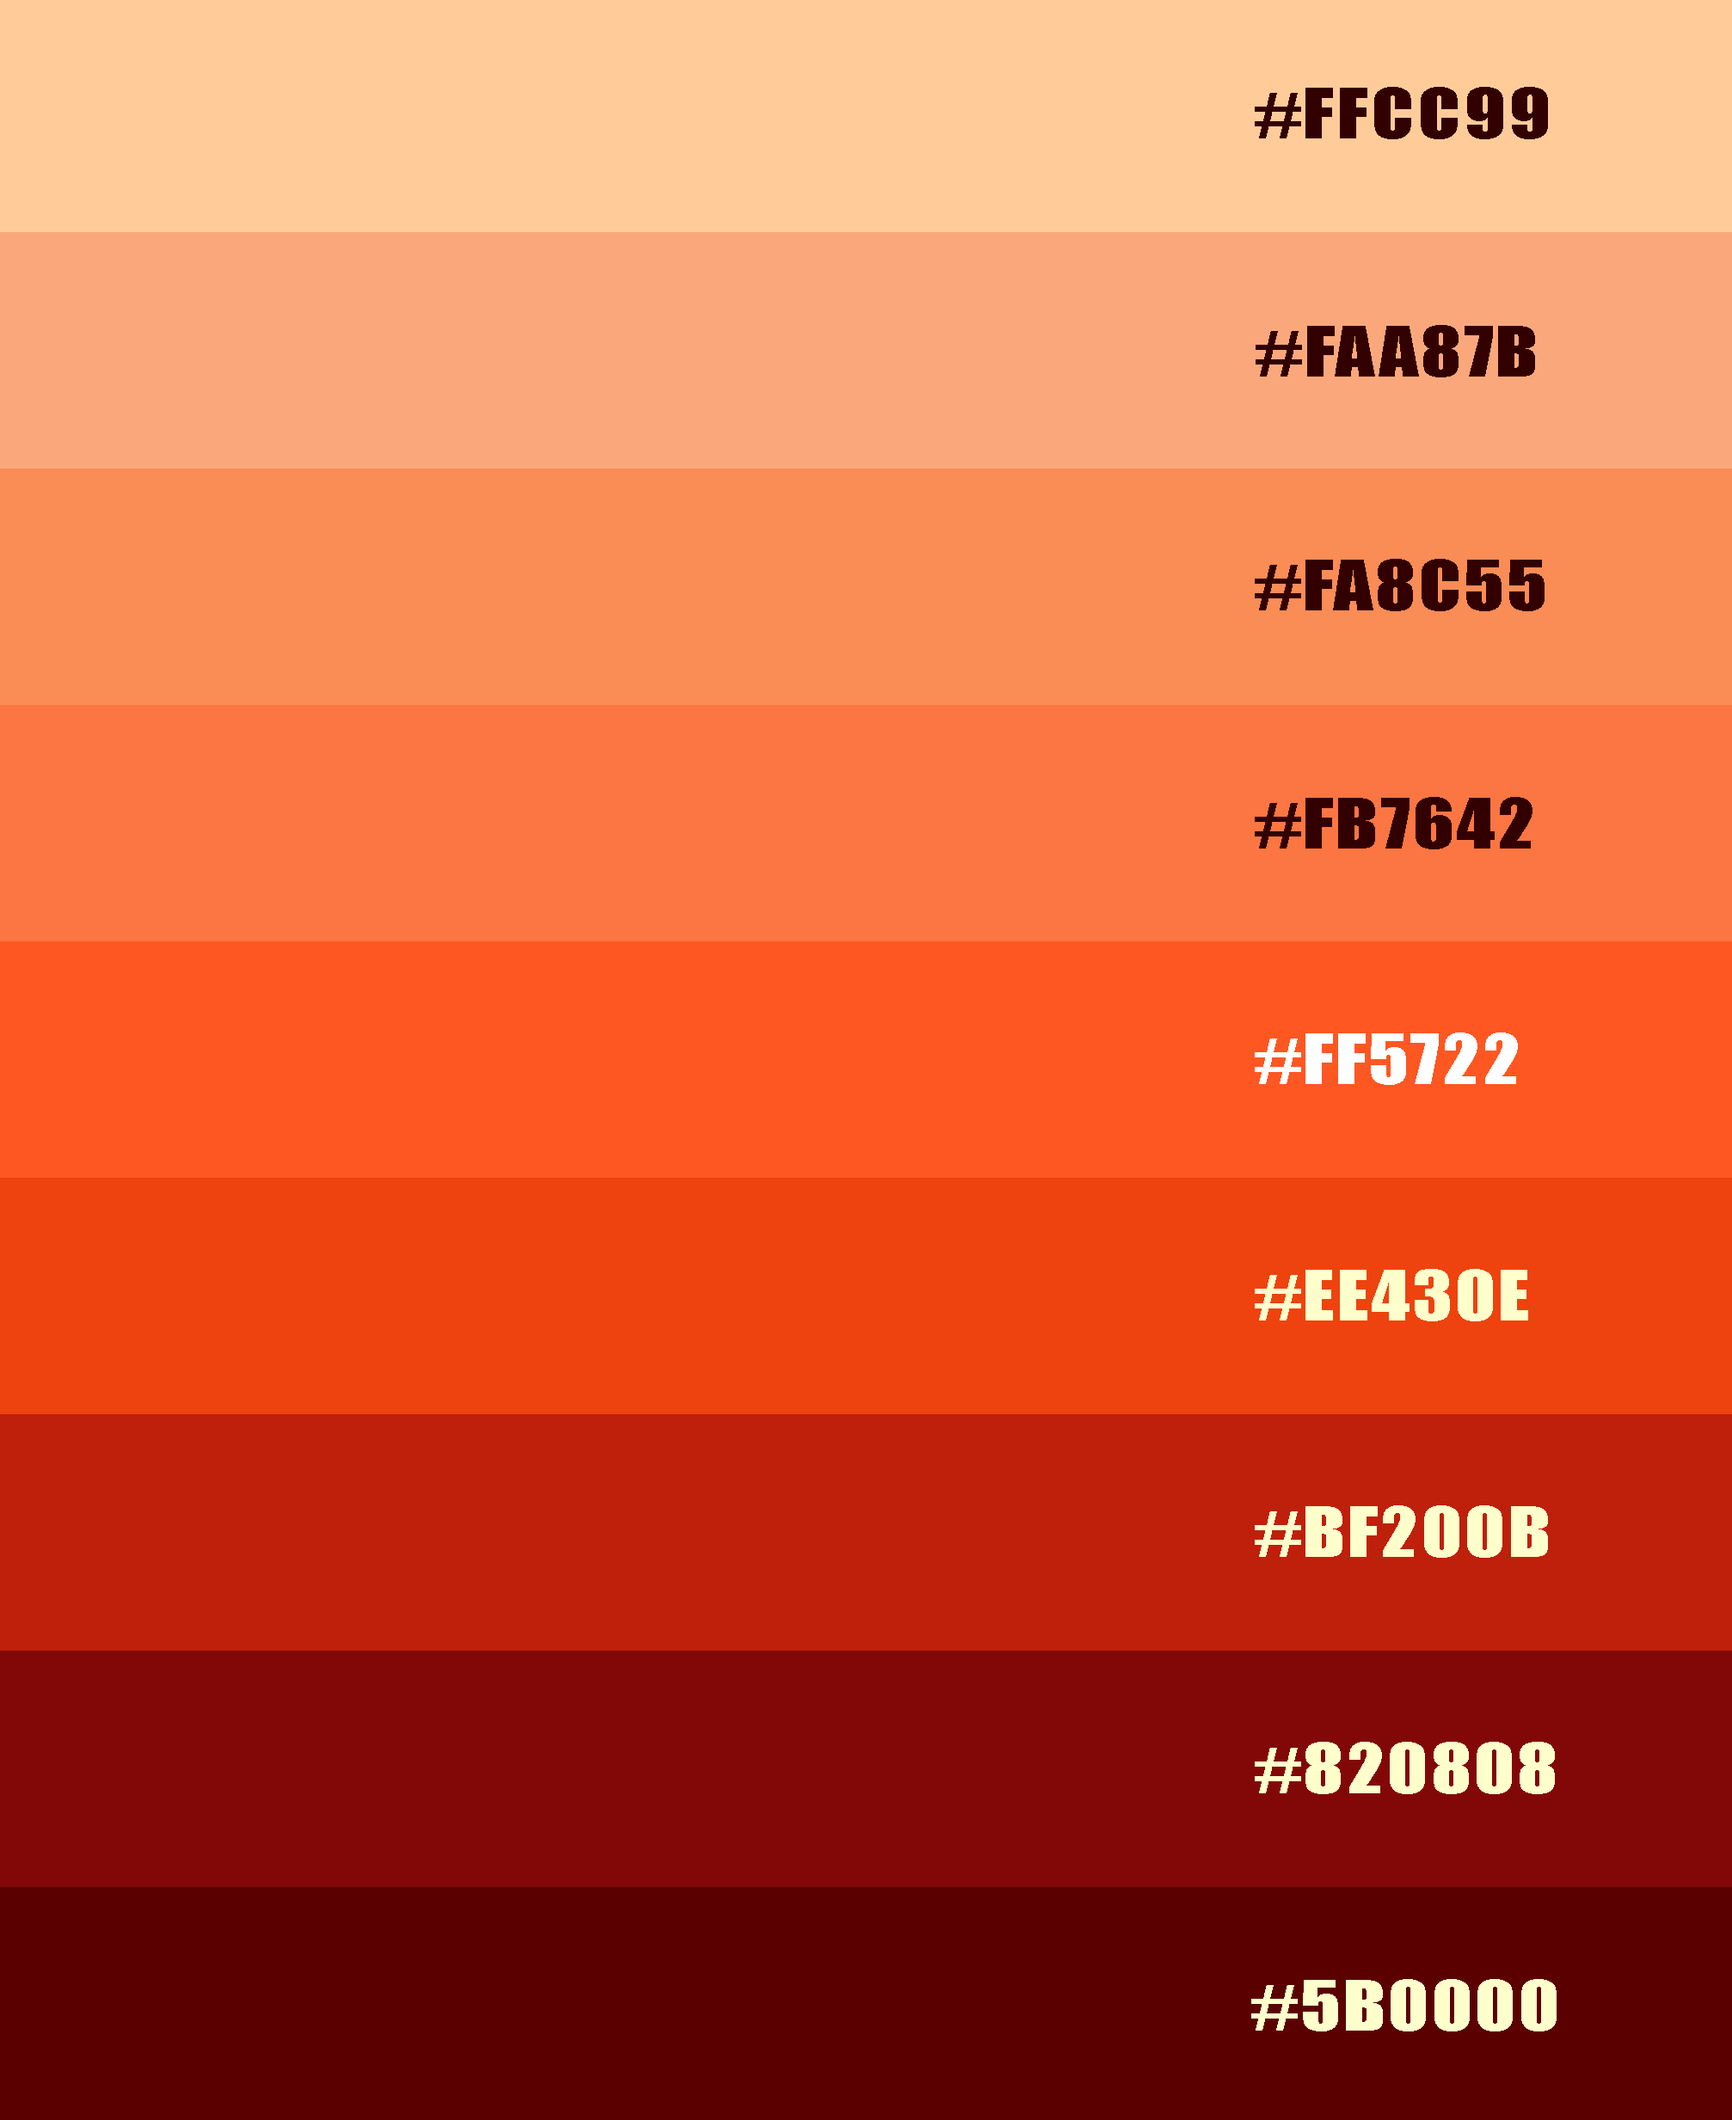
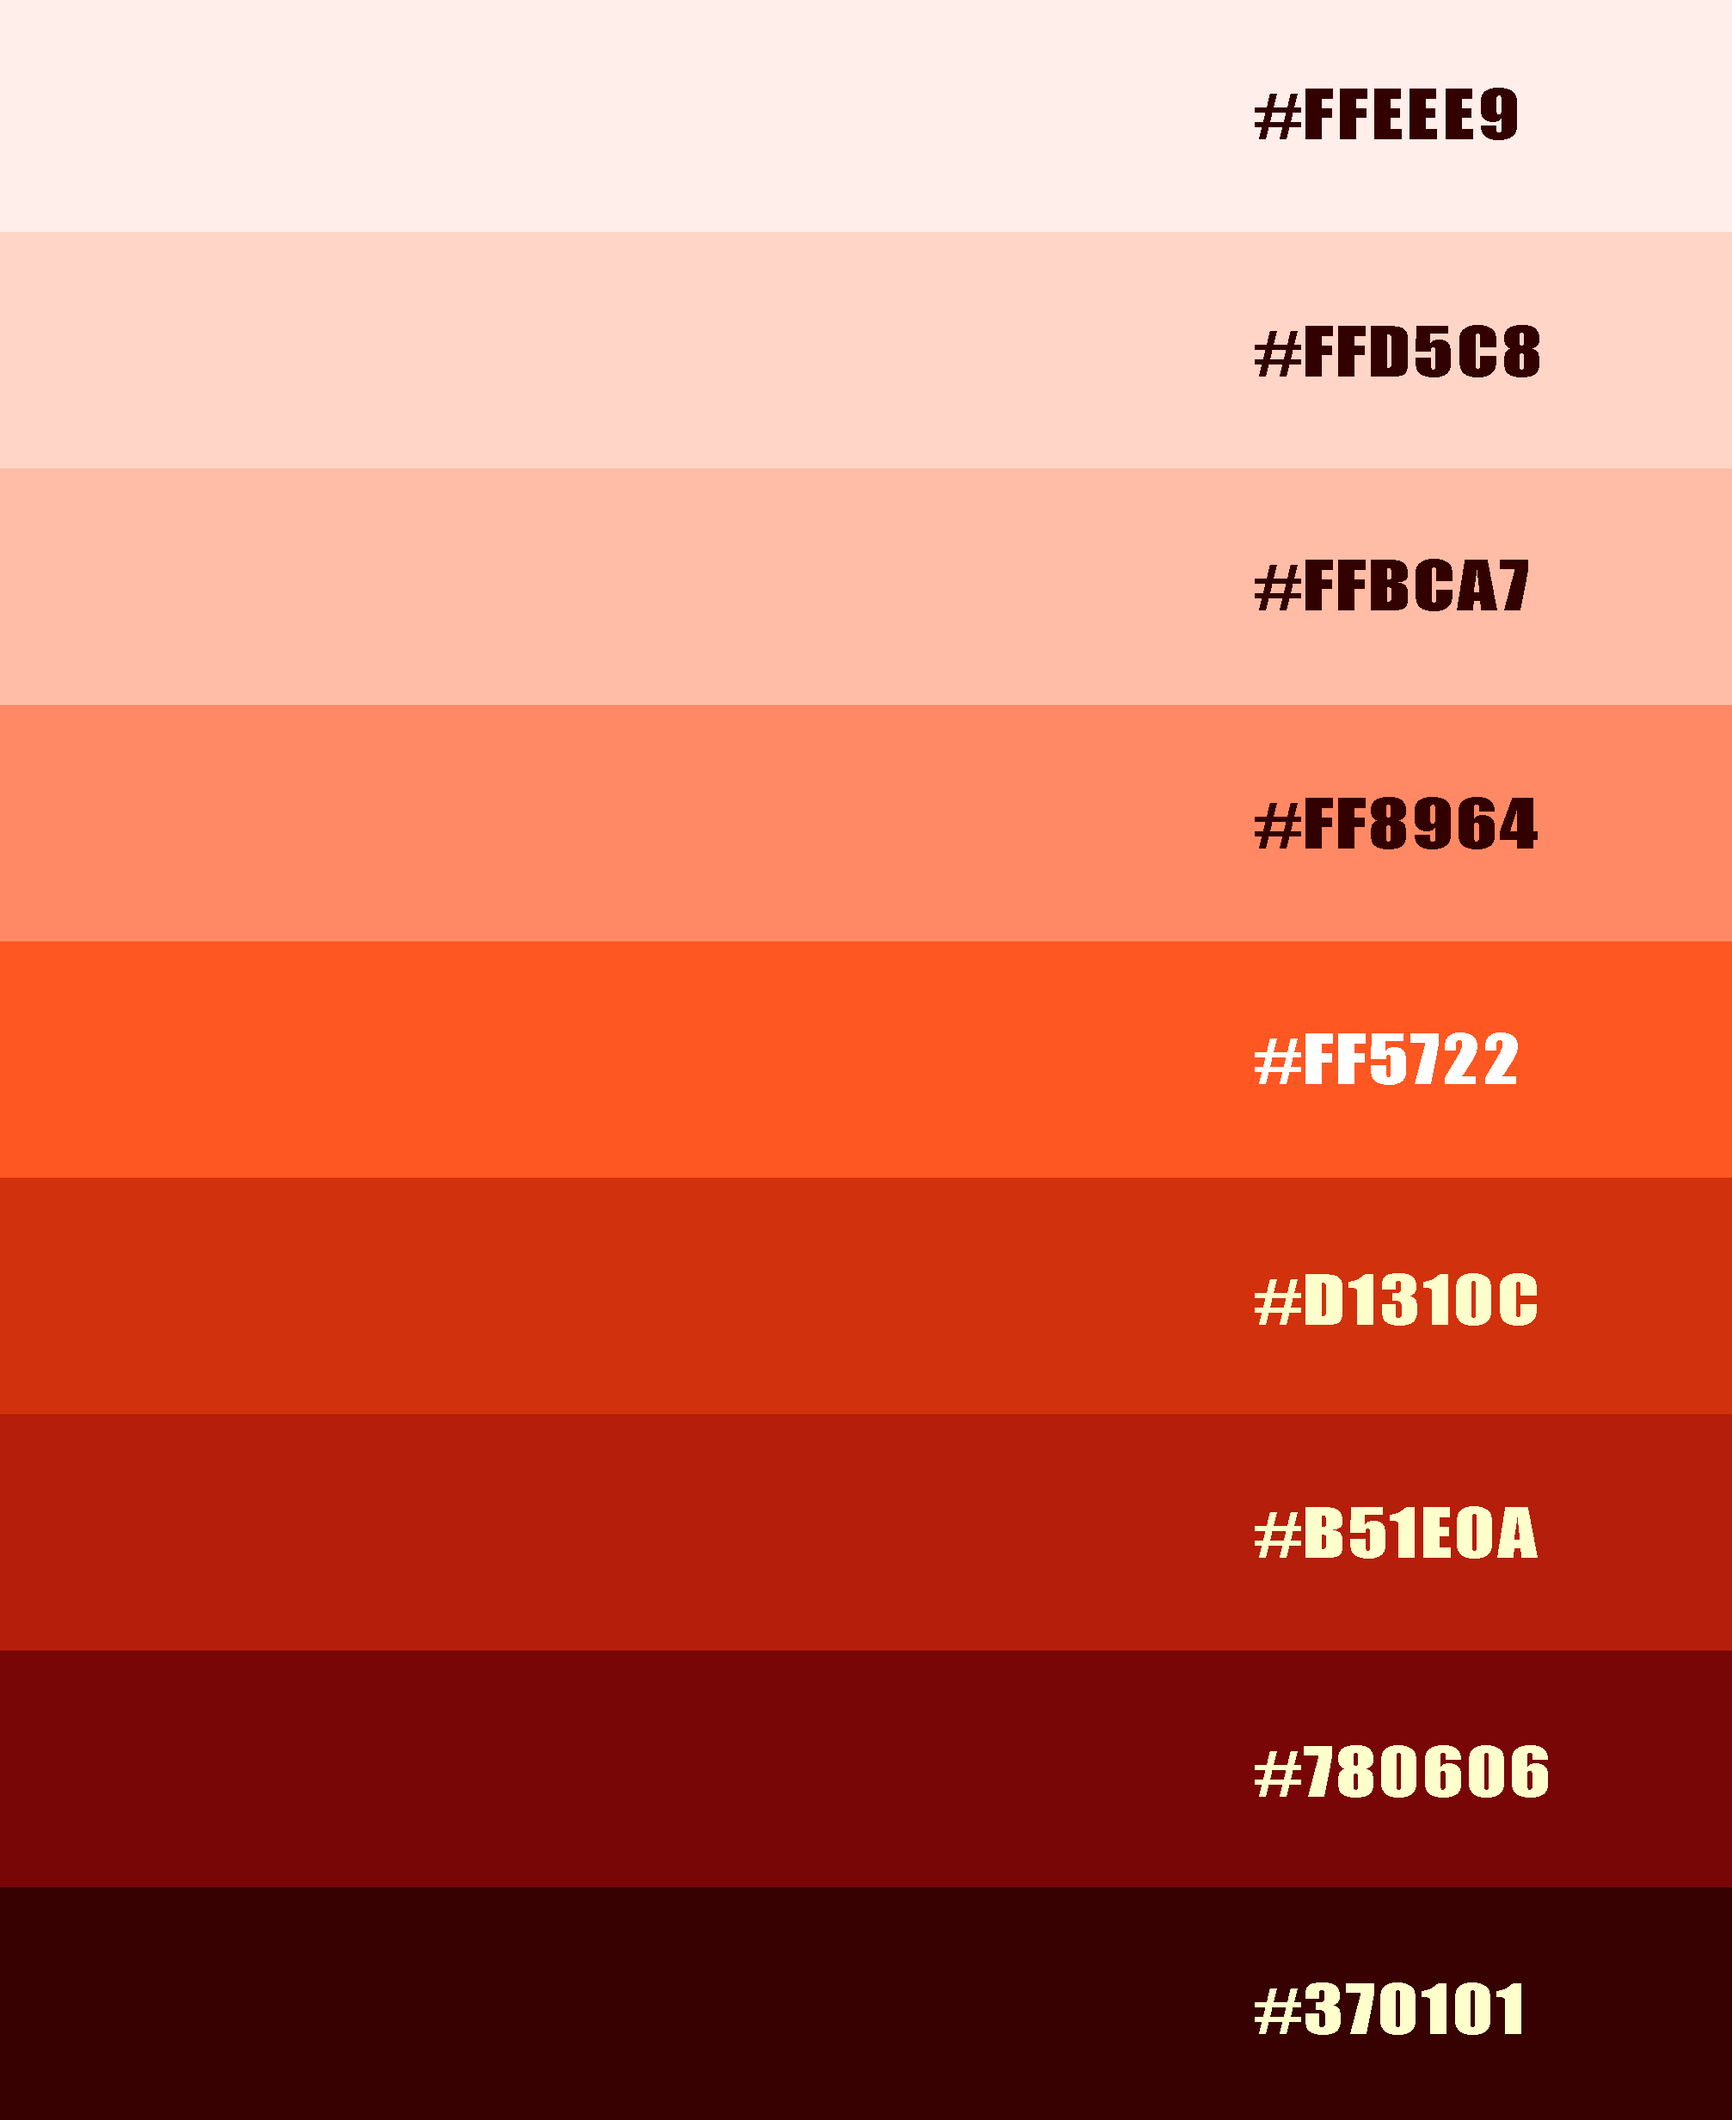
Fix red shade

diff --git a/frontend/tailwind.config.js b/frontend/tailwind.config.js
@@ -4,15 +4,15 @@ module.exports = {
       colors: {
         primary: 
         {
-          '100': '#FFCC99',
-          '200': '#FAA87B',
-          '300': '#FA8C55',
-          '400': '#FB7642',
+          '100': '#FFEEE9',
+          '200': '#FFD5C8',
+          '300': '#FFBCA7',
+          '400': '#FF8964',
           '500': '#FF5722',
-          '600': '#EE430E',
-          '700': '#BF200B',
-          '800': '#820808',
-          '900': '#5B0000'
+          '600': '#D1310C',
+          '700': '#B51E0A',
+          '800': '#780606',
+          '900': '#370101'
         },
         secondary: {
           '100': '#7BFAFF',
